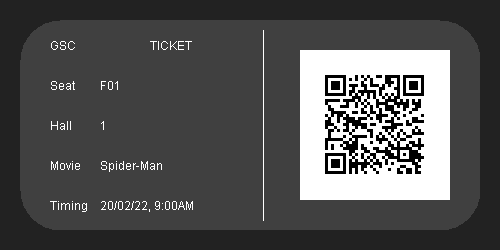
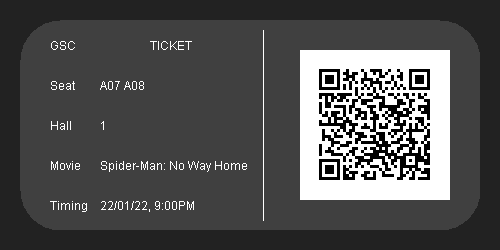
-

diff --git a/CinemaSwingTest1/src/cinemaswingtest1/Ticket.java b/CinemaSwingTest1/src/cinemaswingtest1/Ticket.java
@@ -20,19 +20,13 @@ public class Ticket extends javax.swing.JFrame {
     // <editor-fold defaultstate="collapsed" desc="Generated Code">//GEN-BEGIN:initComponents
     private void initComponents() {
 
-        jLabel1 = new javax.swing.JLabel();
         jLabel2 = new javax.swing.JLabel();
         jButton1 = new javax.swing.JButton();
-        jLabel3 = new javax.swing.JLabel();
+        jLabel1 = new javax.swing.JLabel();
+        jLabel4 = new javax.swing.JLabel();
 
         setDefaultCloseOperation(javax.swing.WindowConstants.EXIT_ON_CLOSE);
         getContentPane().setLayout(new org.netbeans.lib.awtextra.AbsoluteLayout());
-
-        jLabel1.setIcon(new javax.swing.ImageIcon(getClass().getResource("/cinemaswingtest1/image/Ticket.png")));
-        jLabel1.setMaximumSize(new java.awt.Dimension(500, 350));
-        jLabel1.setMinimumSize(new java.awt.Dimension(500, 250));
-        jLabel1.setPreferredSize(new java.awt.Dimension(500, 250));
-        getContentPane().add(jLabel1, new org.netbeans.lib.awtextra.AbsoluteConstraints(48, 56, -1, -1));
 
         jLabel2.setFont(new java.awt.Font("Tahoma", 0, 18)); // NOI18N
         jLabel2.setForeground(new java.awt.Color(255, 255, 255));
@@ -49,9 +43,12 @@ public class Ticket extends javax.swing.JFrame {
         });
         getContentPane().add(jButton1, new org.netbeans.lib.awtextra.AbsoluteConstraints(515, 312, -1, -1));
 
-        jLabel3.setIcon(new javax.swing.ImageIcon(getClass().getResource("/cinemaswingtest1/image/mainmenu/dark grey (2).jpg"))); // NOI18N
-        jLabel3.setText("jLabel3");
-        getContentPane().add(jLabel3, new org.netbeans.lib.awtextra.AbsoluteConstraints(0, 0, 600, 360));
+        jLabel1.setIcon(new javax.swing.ImageIcon(getClass().getResource("/cinemaswingtest1/image/Ticket.png")));
+        getContentPane().add(jLabel1, new org.netbeans.lib.awtextra.AbsoluteConstraints(30, 60, 540, 240));
+
+        jLabel4.setIcon(new javax.swing.ImageIcon(getClass().getResource("/cinemaswingtest1/image/mainmenu/dark grey (2).jpg"))); // NOI18N
+        jLabel4.setText("jLabel4");
+        getContentPane().add(jLabel4, new org.netbeans.lib.awtextra.AbsoluteConstraints(0, 0, 600, 350));
 
         pack();
         setLocationRelativeTo(null);
@@ -106,6 +103,6 @@ public class Ticket extends javax.swing.JFrame {
     private javax.swing.JButton jButton1;
     private javax.swing.JLabel jLabel1;
     private javax.swing.JLabel jLabel2;
-    private javax.swing.JLabel jLabel3;
+    private javax.swing.JLabel jLabel4;
     // End of variables declaration//GEN-END:variables
 }

diff --git a/CinemaSwingTest1/src/cinemaswingtest1/Global.java b/CinemaSwingTest1/src/cinemaswingtest1/Global.java
@@ -6,13 +6,13 @@ import java.util.List;
 
 public class Global {
     public static String customer_email = "";
-    public static String movie_name = "Spider-Man";
-    public static String seat_no = "F01";
+    public static String movie_name = "";
+    public static String seat_no = "";
     public static String cnt_seat = "";
     public static String ticket_class = "";
     public static String fnb_price = "0";
-    public static String day = "20/02/22";
-    public static String time = "9:00AM";
+    public static String day = "";
+    public static String time = "";
     public static String Url=""; 
     public static int seat_movie1;
     public static int seat_movie2;
